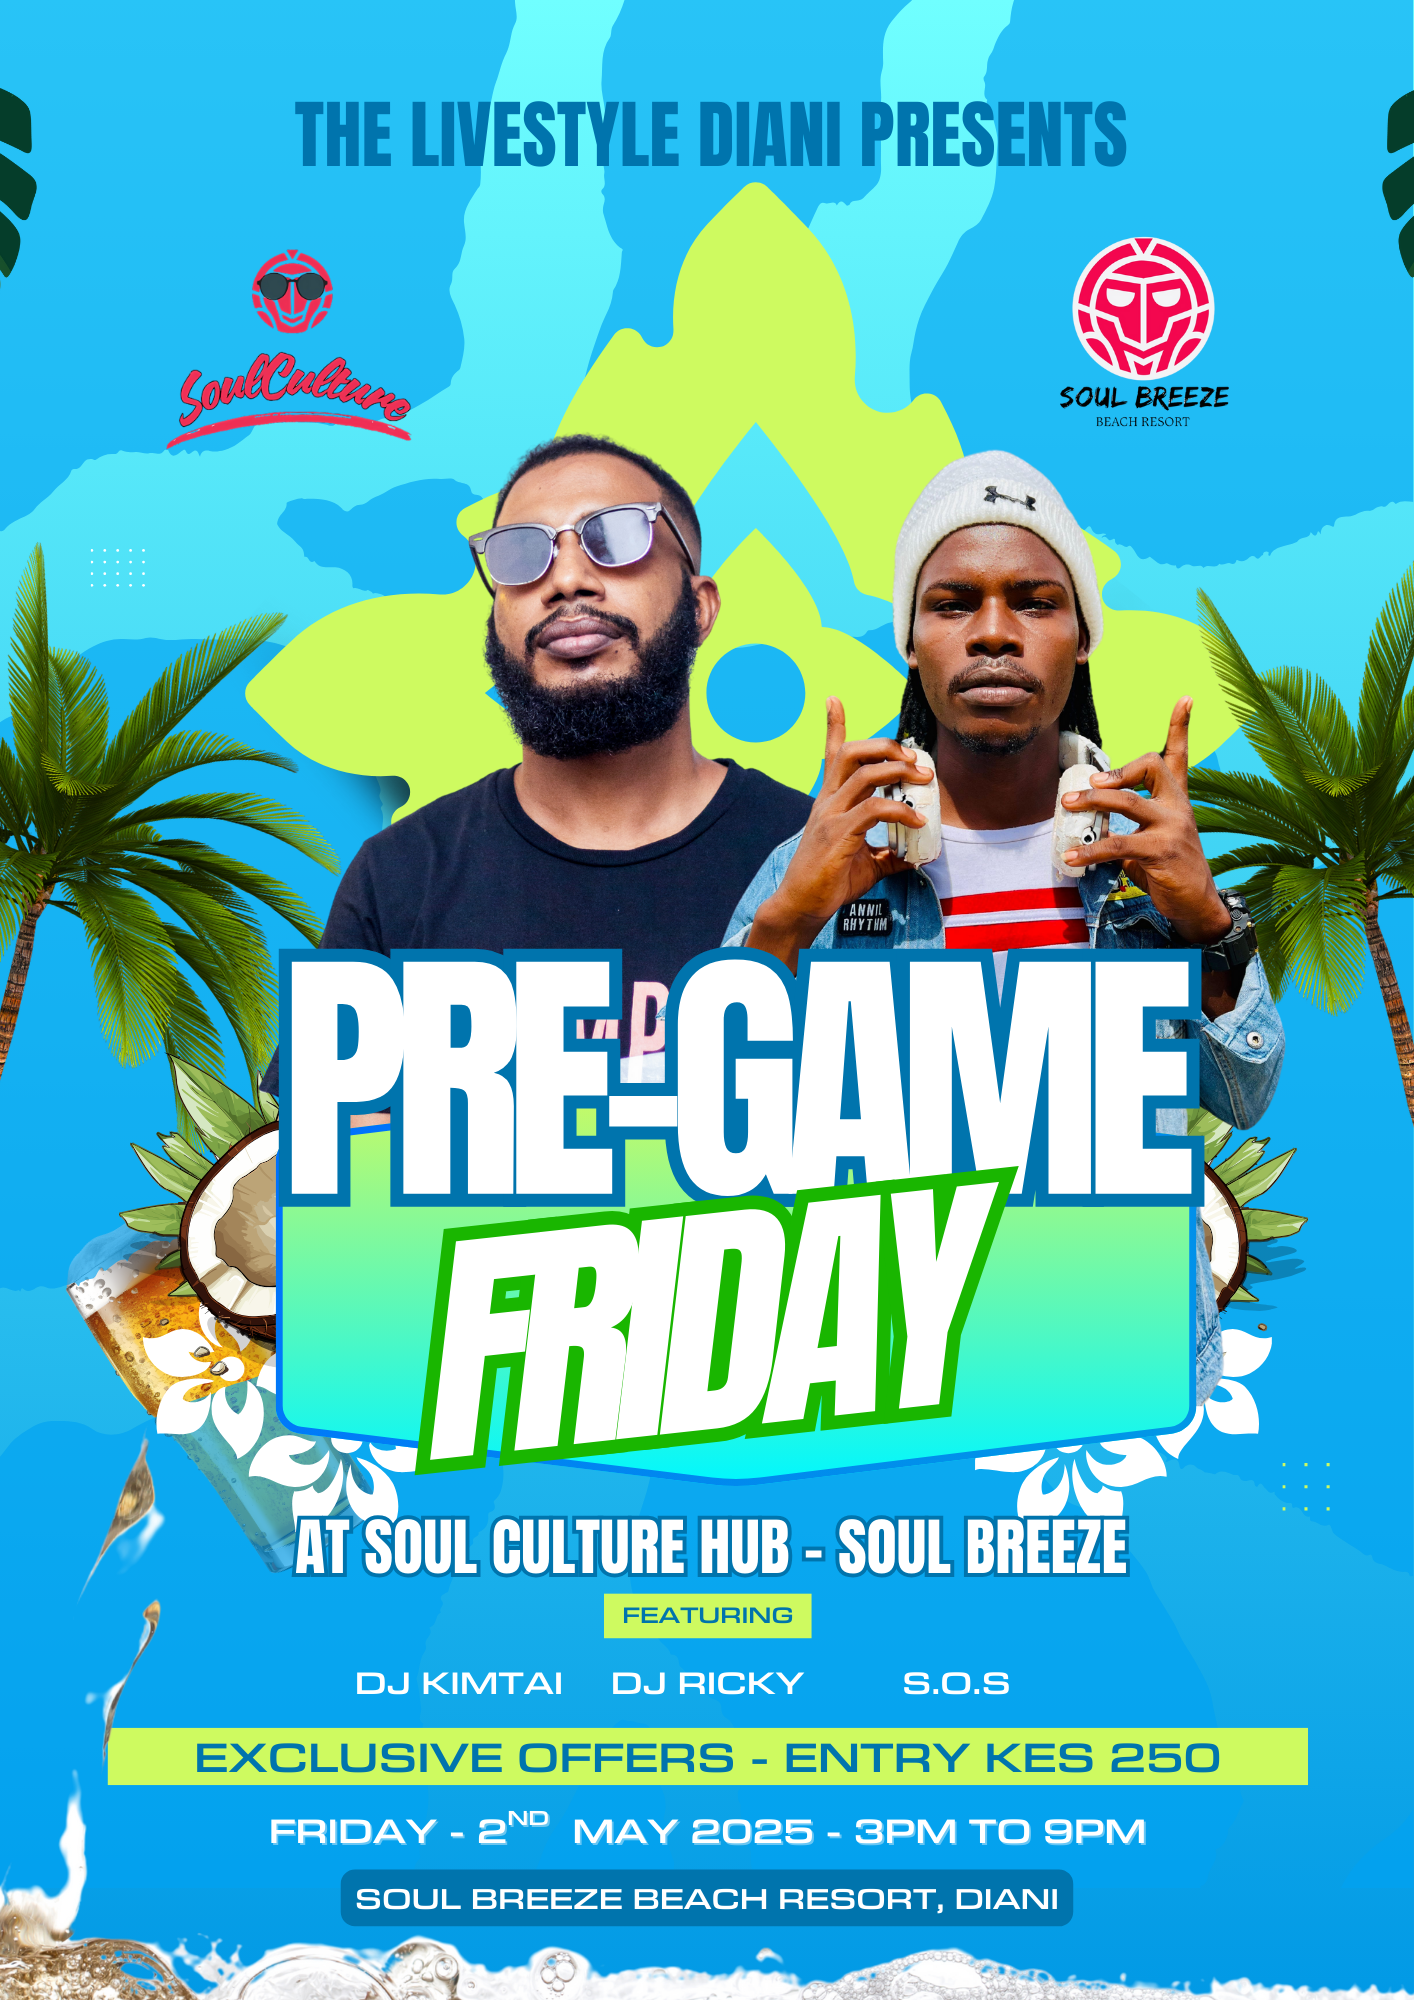
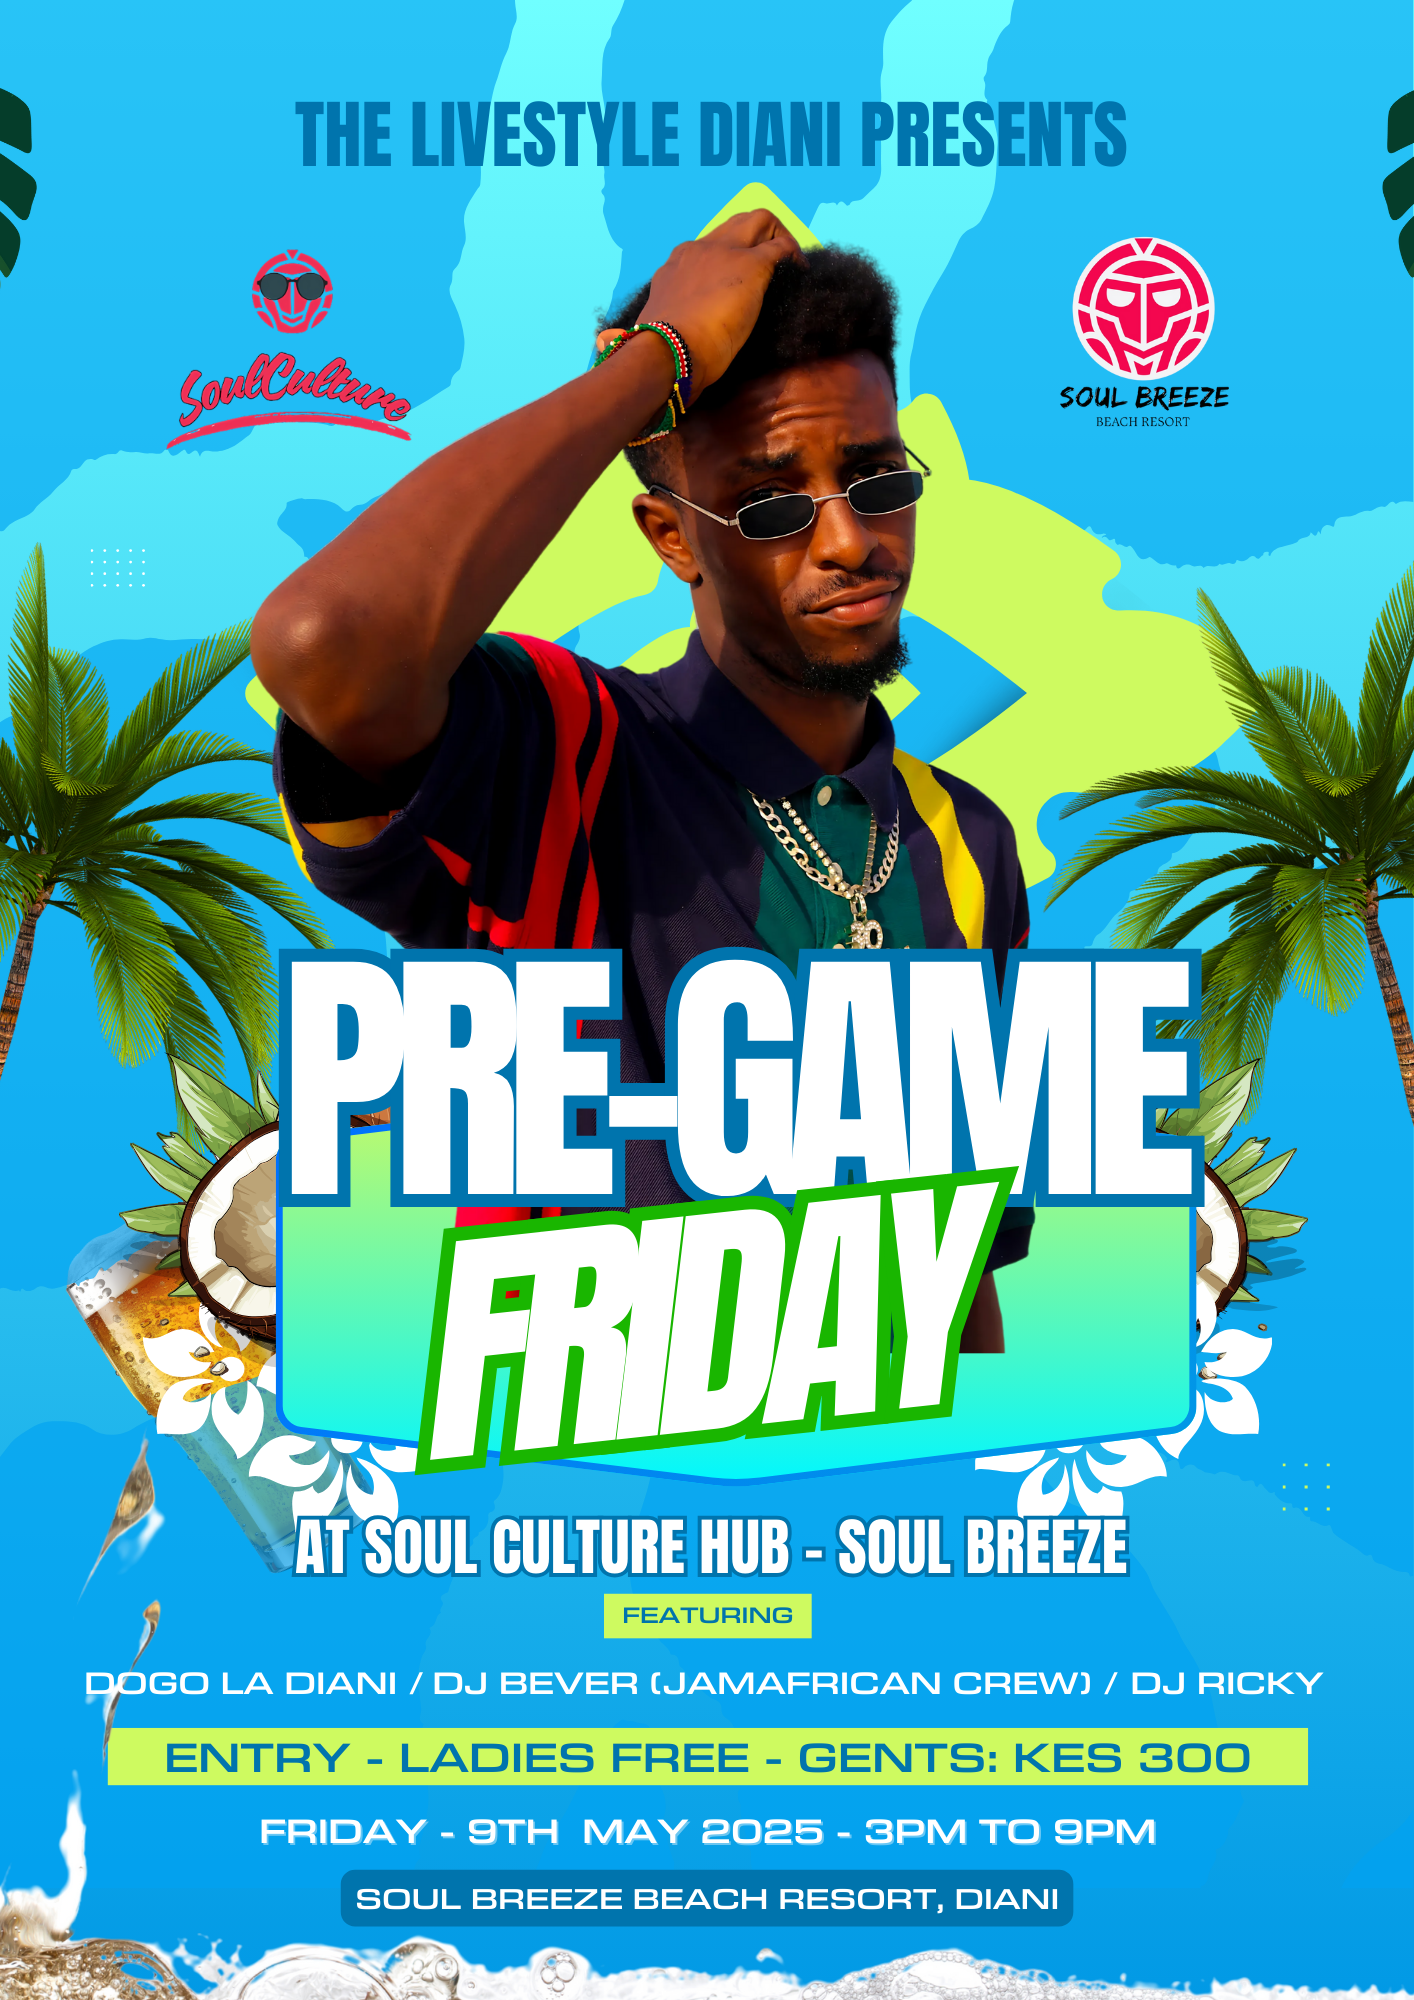
changes5th

diff --git a/src/components/Artists.tsx b/src/components/Artists.tsx
@@ -3,22 +3,22 @@ import { Avatar, AvatarImage, AvatarFallback } from "@/components/ui/avatar";
 
 const Artists = () => {
   const artists = [{
-    name: "DJ Kimtai",
-    image: "/lovable-uploads/ad1c4f31-b745-4f2e-996c-ee07b089ca9e.png", // Unchanged image
-    description: "Spinning the hottest tracks in Hip Hop, Trap, Afro, Dance, and Pop.", // Updated description
-    genre: "HIP HOP, Trap, Afro / Dance / Pop" // Correct genre
+    name: "Dogo la Diani",
+    image: "/lovable-uploads/dogo.png",
+    description: "Award-winning Independent Professional recording and performing artist based in Diani, Kenya",
+    // No genre specified
+  }, {
+    name: "DJ Bever",
+    image: "/lovable-uploads/bever.png",
+    description: "Bringing dancehall and reggae vibes",
+    genre: "Dancehall / Reggae"
   }, {
     name: "DJ Ricky",
-    image: "/lovable-uploads/b3276a4c-c5ee-4a67-8a36-63dba2b2c271.png", // Swapped image (was S.O.S)
-    description: "Bringing the energy with Amapiano, Dancehall, and Afrobeats vibes.", // Updated description
-    genre: "Amapiano / Dancehall / Afrobeats" // Correct genre
-  }, {
-    name: "S.O.S",
-    image: "/lovable-uploads/8fcc8d6a-e0fd-4aed-9e68-431d8c9efe00.png", // Swapped image (was DJ Ricky)
-    description: "Your Host/MC for the night, keeping the energy high. Also an accomplished rapper.", // Updated description
-    // Genre remains removed
+    image: "/lovable-uploads/b3276a4c-c5ee-4a67-8a36-63dba2b2c271.png", // Image path confirmed correct
+    description: "Bringing the energy with Amapiano, Dancehall, and Afrobeats vibes.",
+    genre: "Amapiano / Dancehall / Afrobeats"
   }];
-  
+
   return <section id="artists" className="section-padding bg-gradient-to-b from-event-dark to-event-blue">
       <div className="event-container">
         <h2 className="text-4xl md:text-5xl font-bold mb-12 text-center">

diff --git a/src/components/Hero.tsx b/src/components/Hero.tsx
@@ -40,13 +40,13 @@ const Hero = () => {
           
           <div className="bg-black/30 backdrop-blur-sm py-4 px-6 rounded-lg inline-block mb-8">
             <p className="text-xl md:text-2xl font-medium mb-2">
-              MAY 2ND, 2025 • 3PM - 9PM
+              MAY 9TH, 2025 • 3PM - 9PM
             </p>
             <p className="text-lg md:text-xl mb-1">
               Soul Culture Hub - Soul Breeze Beach Resort, Diani
             </p>
             <p className="text-event-neon font-bold">
-              ENTRY: KES 250
+              ENTRY: Ladies Free - Gents: KES 300
             </p>
           </div>
           
@@ -55,7 +55,7 @@ const Hero = () => {
           </Button>
           
           <p className="mt-6 text-event-light/80">
-            Featuring DJ Kimtai • DJ Ricky • S.O.S
+            Featuring Dogo la Diani • DJ Bever • DJ Ricky
           </p>
         </div>
       </div>

diff --git a/src/components/EventInfo.tsx b/src/components/EventInfo.tsx
@@ -13,7 +13,7 @@ const EventInfo = () => {
                 <Calendar className="text-event-neon mr-4 flex-shrink-0" size={28} />
                 <div>
                   <h3 className="text-xl font-bold mb-1">Date</h3>
-                  <p className="text-event-light/90">Friday, May 2nd, 2025</p>
+                  <p className="text-event-light/90">Friday, May 9th, 2025</p>
                 </div>
               </div>
               
@@ -38,7 +38,7 @@ const EventInfo = () => {
                 <Ticket className="text-event-neon mr-4 flex-shrink-0" size={28} />
                 <div>
                   <h3 className="text-xl font-bold mb-1">Entry Fee</h3>
-                  <p className="text-event-light/90">KES 250</p>
+                  <p className="text-event-light/90">Ladies Free - Gents: KES 300</p>
                 </div>
               </div>
             </div>

diff --git a/src/components/Countdown.tsx b/src/components/Countdown.tsx
@@ -1,8 +1,8 @@
 import { useState, useEffect } from "react";
 
 const Countdown = () => {
-  // Set the event date (May 2nd, 2025)
-  const eventDate = new Date("2025-05-02T15:00:00").getTime();
+  // Set the event date (May 9th, 2025)
+  const eventDate = new Date("2025-05-09T15:00:00").getTime();
   
   const [timeLeft, setTimeLeft] = useState({
     days: 0,
